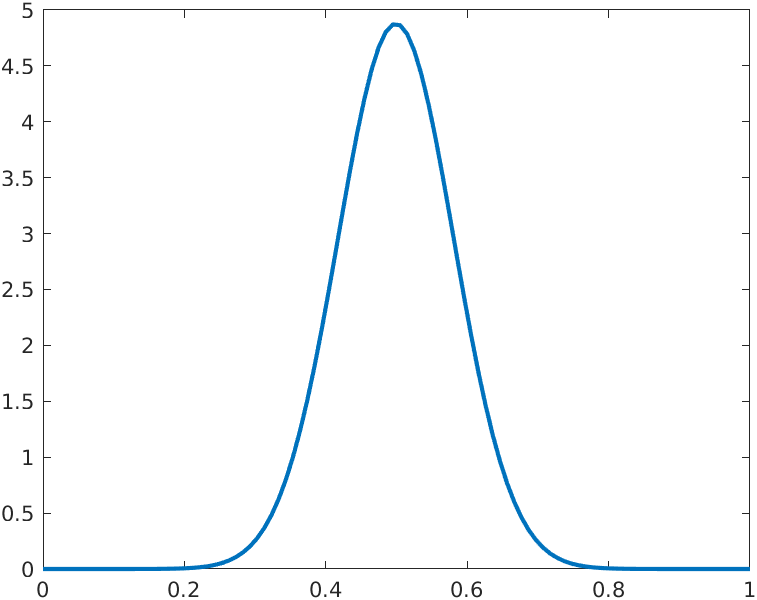
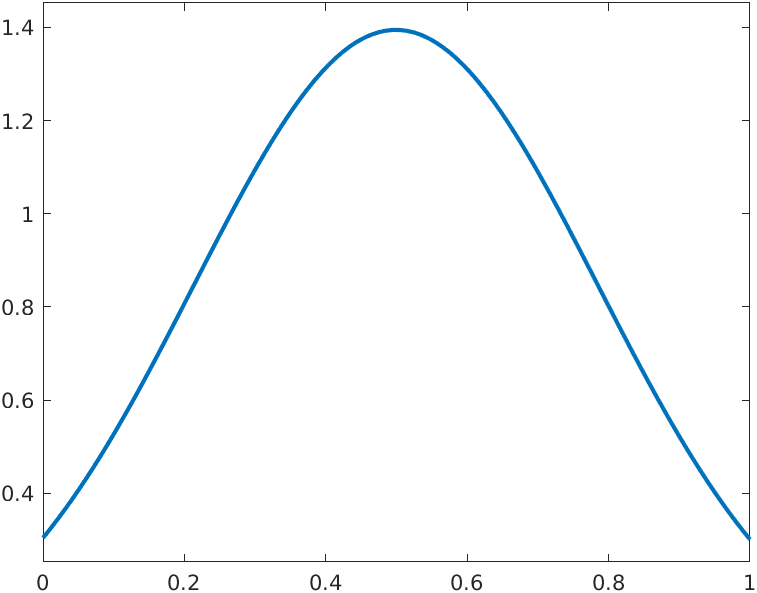
var

diff --git a/linear_congruential.m b/linear_congruential.m
@@ -1,6 +1,8 @@
 a=textread('linear_congruential.txt');
 x=linspace(0,1);
-y=pdf('Normal',x,0.5014,0.0839);
+y=pdf('Normal',x,0.5014,0.2897);
 plot(x,y,'LineWidth',2)
 mu=mean(a)
-sigma=var(a)
+sigma=sqrt(var(a))
+
+

diff --git a/mersenne_twister.m b/mersenne_twister.m
@@ -1,6 +1,7 @@
 a=textread('mersenne_twister.txt');
 x=linspace(0,1);
-y=pdf('Normal',x,0.4991,0.0818);
+y=pdf('Normal',x,0.4991,0.2860);
 plot(x,y,'LineWidth',2)
 mu=mean(a)
-sigma=var(a)
+sigma=sqrt(var(a))
+
